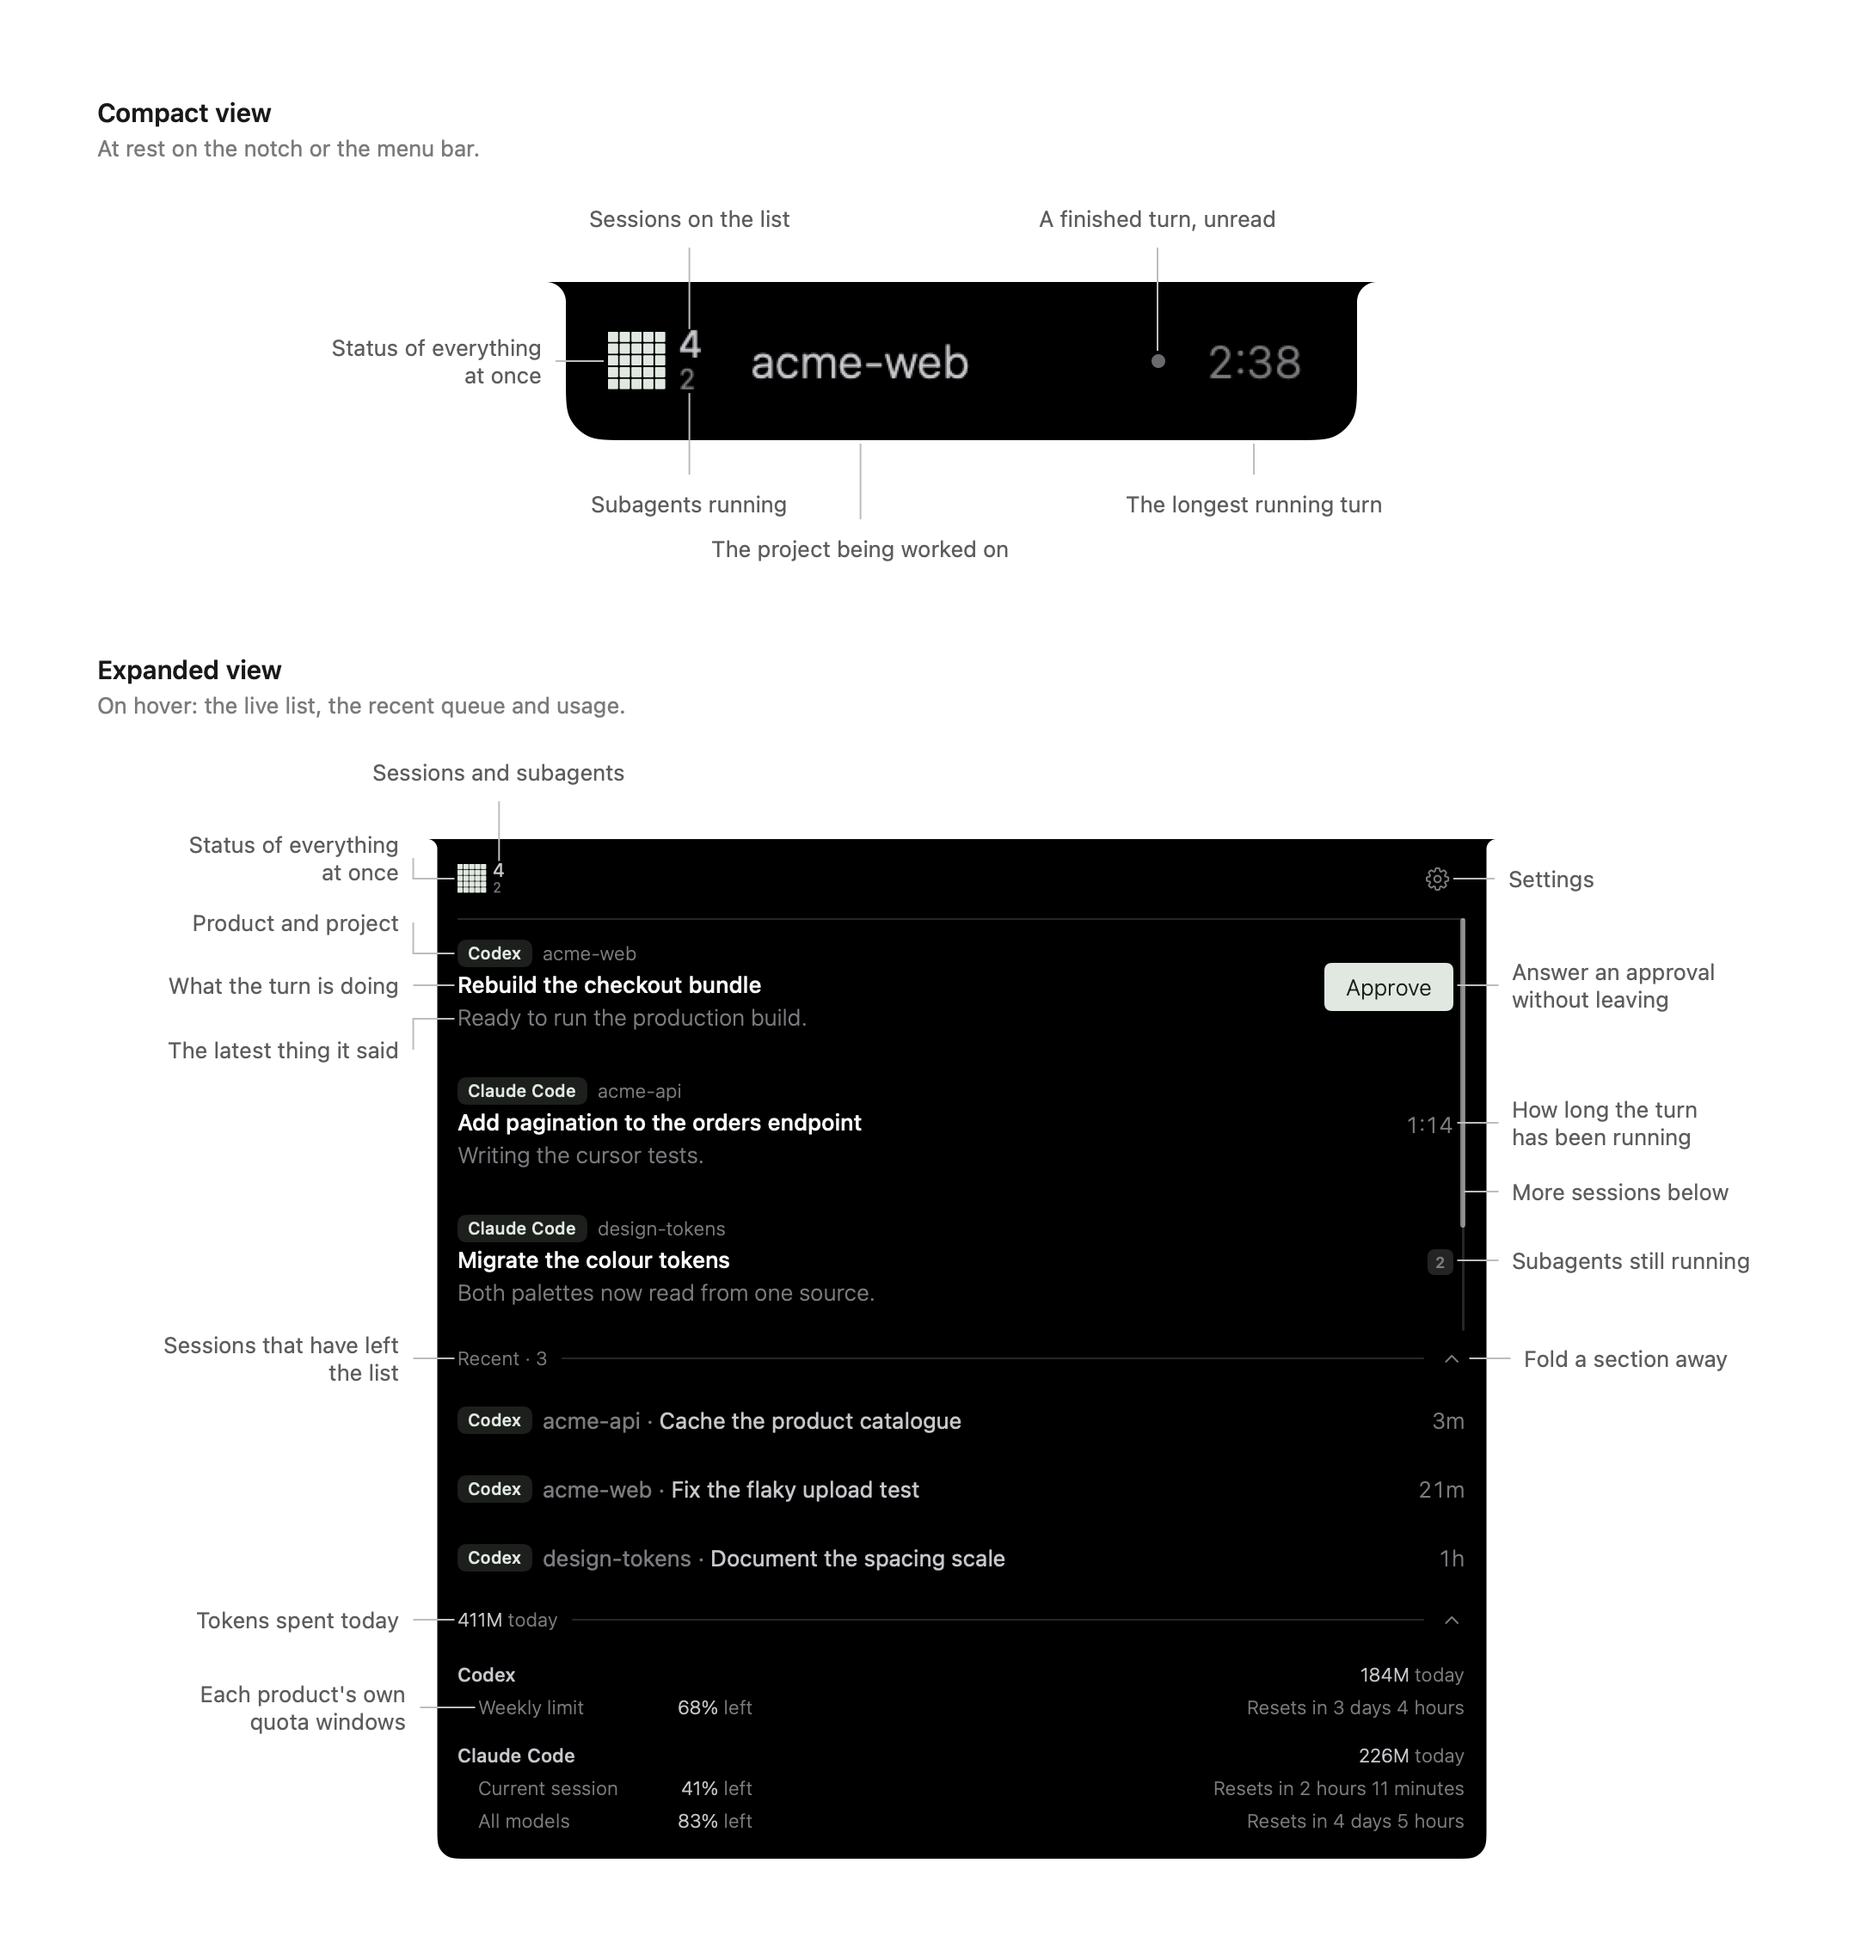
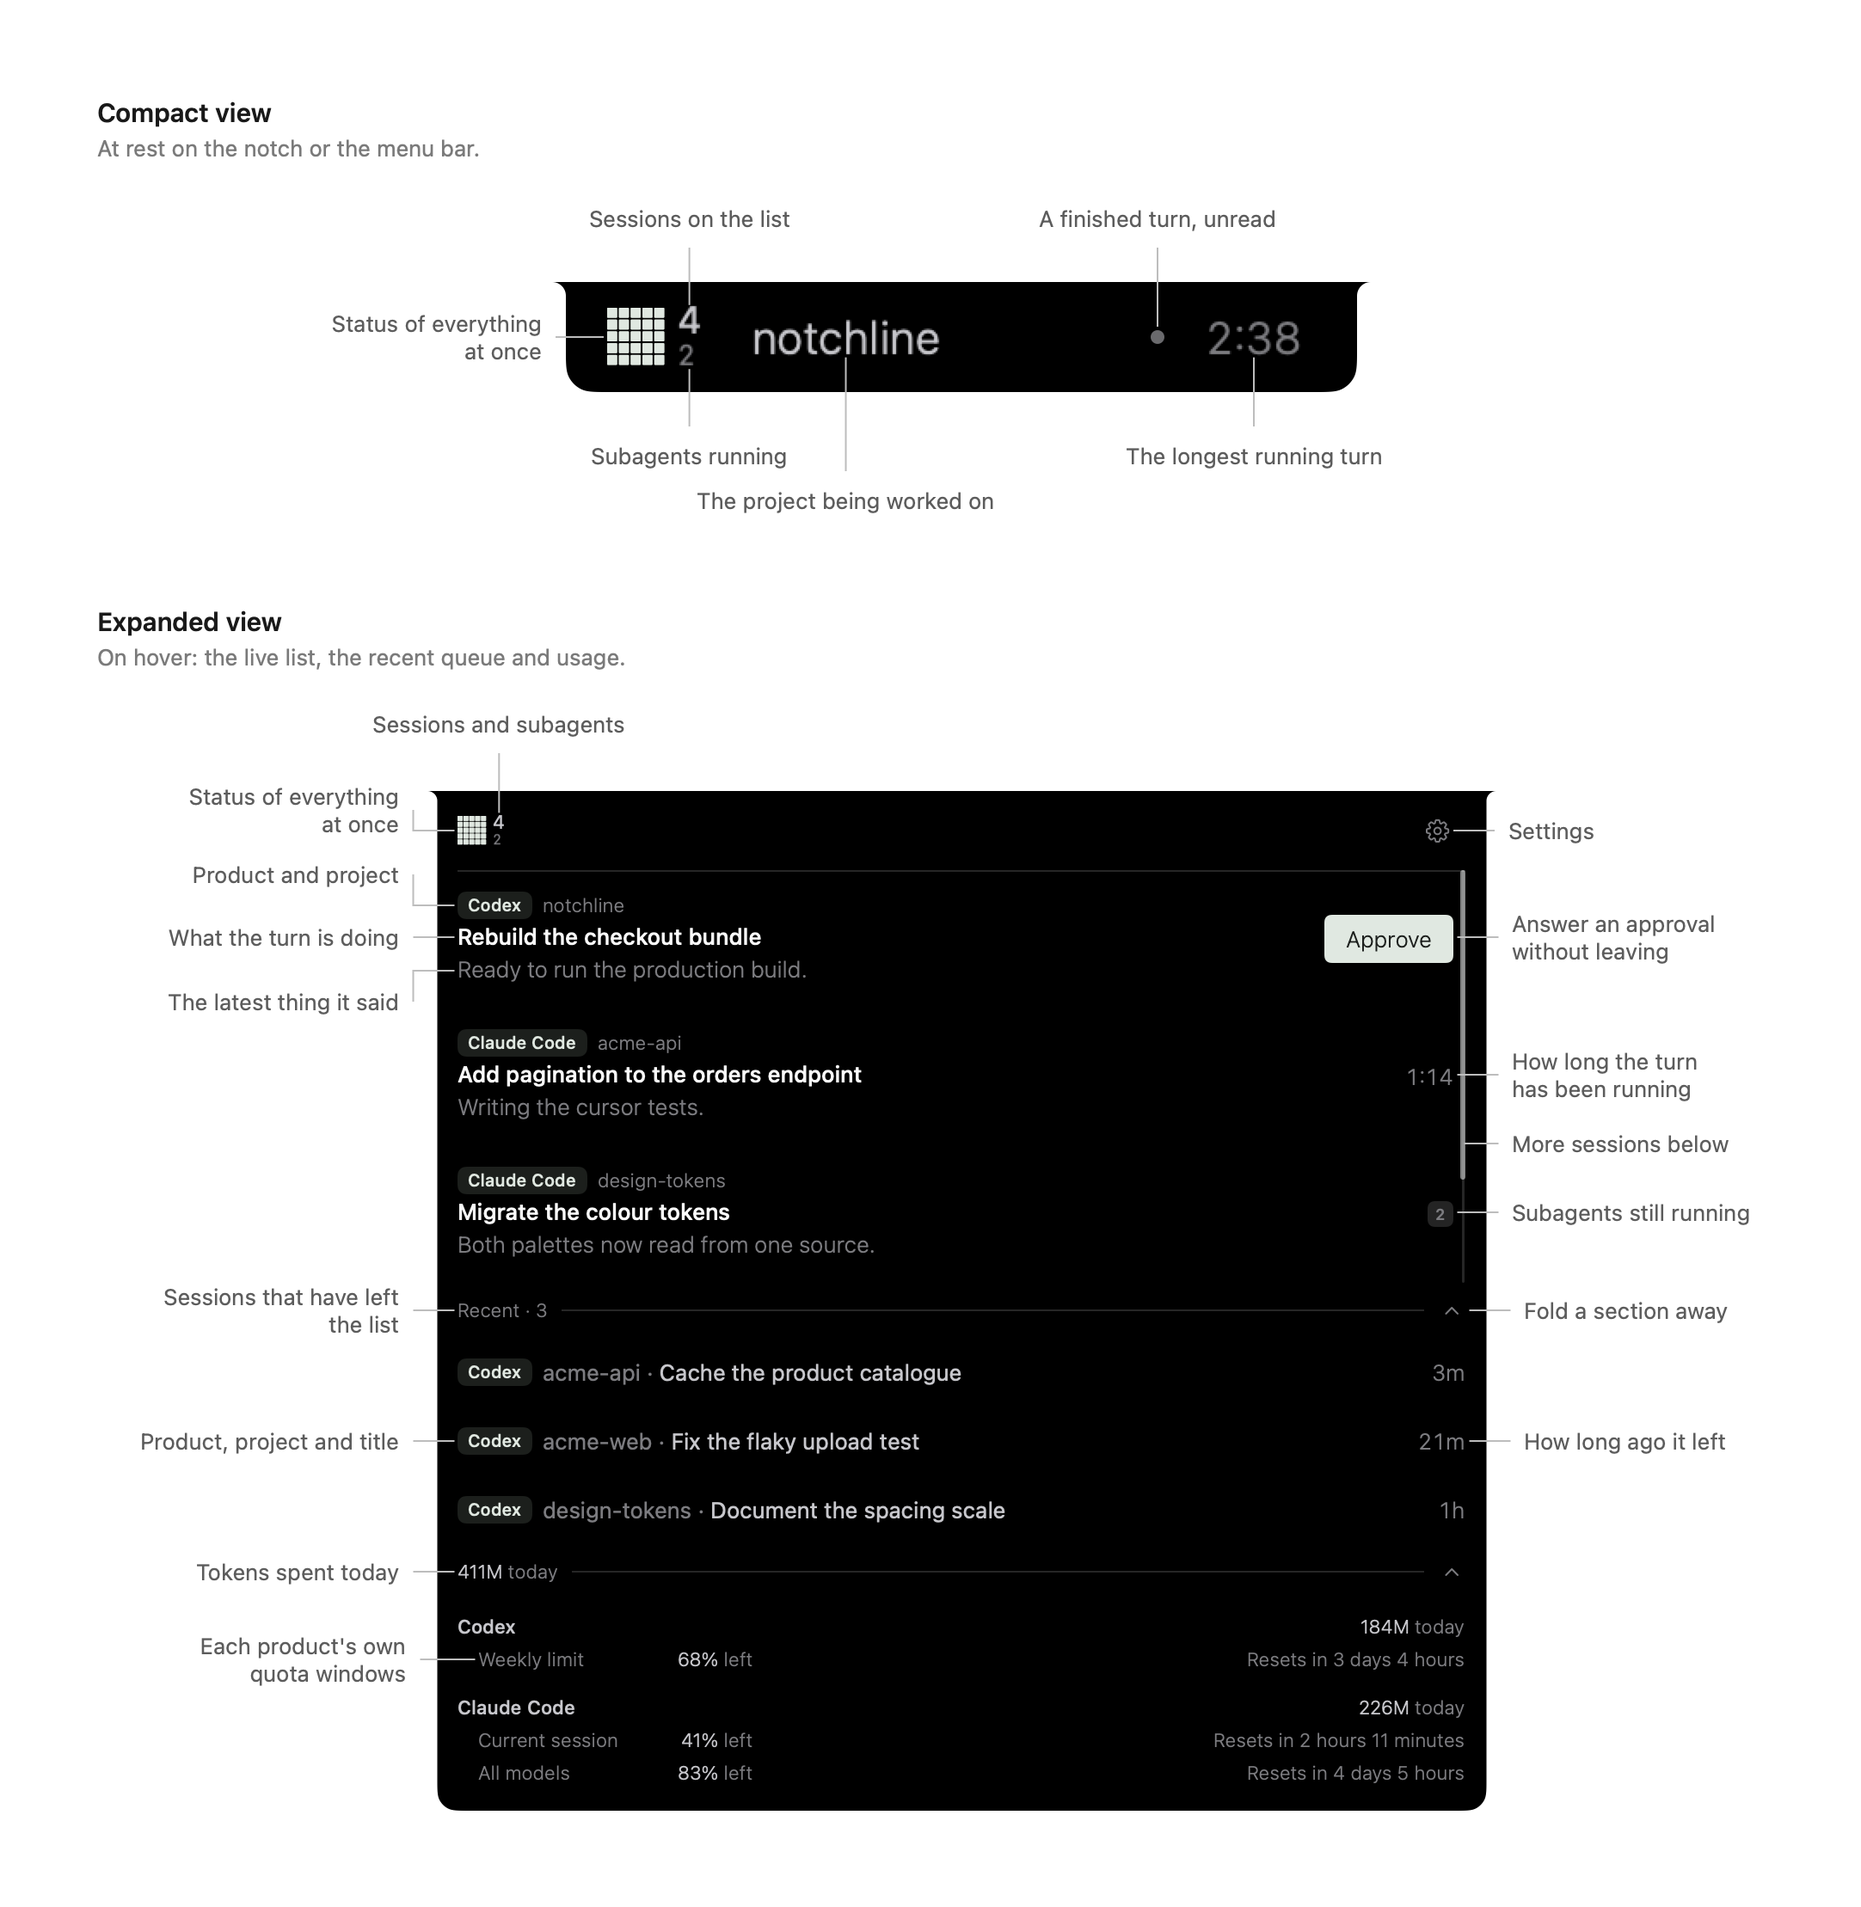
Draw the pill on a 32 pt bar, and name four more parts
Four changes to the README anatomy, and one defect the last of them found.

**The pill is drawn on a `32` pt bar rather than the `46` pt reference.** Its
width is composed from the wing and the reading and does not move with the
height, so at `46` it was `241 × 46` — a slab, rather than something that hugs
a menu bar. The panel keeps `46`, which is what its band is measured at in
every document, so the two figures now show two different bars; if that reads
wrong, `panelDisplay` is the one line to change.

**The pill's project is `notchline`.** It is the first row's Project, so the
panel's leading row says it too — one staged moment, one name. The other rows
and the Recent queue keep their own, which is what makes the pill's middle a
rotation rather than a label.

**Its Project and its reading are pinned to their glyphs**, not to the bar's
bottom edge, which is where a leader dropped from an x alone was landing. Both
are `13` pt Light centred in the band, and SwiftUI centres the line box rather
than the cap, so the baseline is `(ascender + descender) / 2` below the middle;
the timer's monospaced-digit face is the same font with tabular figures on and
carries the same metrics, so one figure serves the pair.

**A retired row is named, and so is its age** — the two parts the Recent
section had that nothing pointed at.

The defect: this test used to `orderFront` the window it renders in, and with
`~/.notchline-anatomy-out` in place a full run then failed **27** tests
[…]

diff --git a/Notchline/NotchlineTests/AnatomyFigureRenderer.swift b/Notchline/NotchlineTests/AnatomyFigureRenderer.swift
@@ -36,26 +36,36 @@ import Testing
 
 @MainActor
 struct AnatomyFigureRenderer {
-    /// A display that is not a display: a `46` pt menu bar and no notch, so
-    /// both figures draw the self-contained pill rather than a shape that only
-    /// reads wrapped around a cut-out.
-    static let display = DisplayOption(
-        id: "anatomy",
-        displayID: nil,
-        ordinal: 1,
-        name: "Anatomy",
-        frame: NSRect(x: 0, y: 0, width: 1440, height: 900),
-        visibleFrame: NSRect(
-            x: 0,
-            y: 0,
-            width: 1440,
-            height: 900 - PanelMetrics.referenceCompactHeight
-        ),
-        safeAreaInsets: NSEdgeInsets(),
-        auxiliaryTopLeftArea: nil,
-        auxiliaryTopRightArea: nil,
-        fallbackMenuBarHeight: PanelMetrics.referenceCompactHeight
-    )
+    /// A display that is not a display: no notch, so both figures draw the
+    /// self-contained pill rather than a shape that only reads wrapped around a
+    /// cut-out.
+    ///
+    /// The bar height is the figure's own. `panelBandHeight` on a display with
+    /// no cut-out is its menu bar, so it is set by the visible frame and by the
+    /// fallback together.
+    static func display(bandHeight: CGFloat) -> DisplayOption {
+        DisplayOption(
+            id: "anatomy-\(Int(bandHeight))",
+            displayID: nil,
+            ordinal: 1,
+            name: "Anatomy",
+            frame: NSRect(x: 0, y: 0, width: 1440, height: 900),
+            visibleFrame: NSRect(x: 0, y: 0, width: 1440, height: 900 - bandHeight),
+            safeAreaInsets: NSEdgeInsets(),
+            auxiliaryTopLeftArea: nil,
+            auxiliaryTopRightArea: nil,
+            fallbackMenuBarHeight: bandHeight
+        )
+    }
+
+    /// The pill is drawn on a `32` pt bar. At the `46` pt reference it is `241`
+    /// wide and `46` tall, which reads as a slab rather than as something that
+    /// hugs a menu bar; the width is composed from the wing and the reading and
+    /// does not move with the height, so the whole of the change is proportion.
+    static let compactDisplay = display(bandHeight: 32)
+    /// The panel keeps the reference bar, which is what its band is measured at
+    /// everywhere else in the documents.
+    static let panelDisplay = display(bandHeight: PanelMetrics.referenceCompactHeight)
 
     // MARK: - The staged moment
 
@@ -82,7 +92,7 @@ struct AnatomyFigureRenderer {
                 agent: .codex,
                 threadID: "anatomy-approval-thread",
                 turnID: "anatomy-approval-turn",
-                projectName: "acme-web",
+                projectName: "notchline",
                 title: "Rebuild the checkout bundle",
                 preview: "Ready to run the production build.",
                 status: .approvalNeeded,
@@ -171,7 +181,8 @@ struct AnatomyFigureRenderer {
     static func store(
         isExpanded: Bool,
         buriedFinish: Bool,
-        at now: Date
+        at now: Date,
+        on display: DisplayOption
     ) -> MonitorStore {
         let rows = sessions(at: now, buriedFinish: buriedFinish)
         let quotas = quota(at: now)
@@ -276,7 +287,13 @@ struct AnatomyFigureRenderer {
         // runs; pinning the appearance keeps a figure from changing with
         // whatever the machine rendering it happens to be set to.
         window.appearance = NSAppearance(named: .darkAqua)
-        window.orderFront(nil)
+        // **The window is never ordered in.** It exists to give the hosting
+        // view an appearance and a backing scale; `cacheDisplay` draws the view
+        // tree itself and does not need it on screen -- the figure is byte for
+        // byte the same either way. Ordering it front cost 27 failures
+        // elsewhere in the suite, on the tests that synthesise events at their
+        // own offscreen hosting views: a real window in front of them takes the
+        // hit that was meant for theirs.
         host.layoutSubtreeIfNeeded()
         // Turns of the loop, so SwiftUI has committed a layout pass and the
         // lists have filled before anything is cached out of them.
@@ -286,7 +303,6 @@ struct AnatomyFigureRenderer {
 
         let rep = try #require(host.bitmapImageRepForCachingDisplay(in: host.bounds))
         host.cacheDisplay(in: host.bounds, to: rep)
-        window.orderOut(nil)
 
         let data = try #require(rep.representation(using: .png, properties: [:]))
         try data.write(to: url)
@@ -322,7 +338,12 @@ struct AnatomyFigureRenderer {
 
         // The collapsed pill: the mark, the counts, the Project, the dot for a
         // finished turn nobody has read, and the longest running turn.
-        let compact = Self.store(isExpanded: false, buriedFinish: true, at: now)
+        let compact = Self.store(
+            isExpanded: false,
+            buriedFinish: true,
+            at: now,
+            on: Self.compactDisplay
+        )
         let compactSize = CGSize(
             width: compact.currentPanelSize.width + compact.surfaceShoulderRadius * 2,
             height: compact.currentPanelSize.height
@@ -338,7 +359,12 @@ struct AnatomyFigureRenderer {
         // moment the pill is: the counts on the two figures are one reading,
         // and the fourth row -- the finished one the pill's dot speaks for --
         // is the one the rail says is below.
-        let panel = Self.store(isExpanded: true, buriedFinish: true, at: now)
+        let panel = Self.store(
+            isExpanded: true,
+            buriedFinish: true,
+            at: now,
+            on: Self.panelDisplay
+        )
         panel.stageSpecimenQueue(Self.departures(at: now))
         panel.isRecentExpanded = true
         panel.isQuotaExpanded = true

diff --git a/Notchline/NotchlineTests/ReadmeAnatomyCard.swift b/Notchline/NotchlineTests/ReadmeAnatomyCard.swift
@@ -288,6 +288,19 @@ struct AnatomyAnchors {
 
     var buriedDotTop: CGFloat { matrixMidY - PanelMetrics.buriedFinishDotSize / 2 }
 
+    /// The bottom of a single line of text centred in the band — its baseline,
+    /// since neither reading the pill draws has a descender below it.
+    ///
+    /// SwiftUI centres the *line box*, not the cap, so the baseline sits half
+    /// the box's own asymmetry below the middle. Both readings are `13` pt
+    /// Light: the timer's monospaced-digit face is the same font with tabular
+    /// figures on, and carries the same ascender and descender, so one figure
+    /// serves the pair.
+    var readingGlyphBottom: CGFloat {
+        let font = PanelMetrics.projectNameFont
+        return matrixMidY + (font.ascender + font.descender) / 2
+    }
+
     // MARK: The expanded panel
 
     /// The gear's own glyph, not the `32` pt button around it: `gearshape` at
@@ -321,6 +334,10 @@ struct AnatomyAnchors {
             + PanelMetrics.sessionViewportWidth(panelWidth: bodyWidth)
             - PanelMetrics.sessionRowPadding
     }
+
+    /// A retired row's age. The Recent queue has its own viewport and its own
+    /// rail, and three rows do not fill five, so it keeps the whole lane.
+    var retiredAgeRight: CGFloat { seamChevronRight }
 
     /// The rail stands on the panel's own `12` pt inset and never in it.
     var railLeft: CGFloat { trailingEdge - PanelMetrics.scrollRailWidth }
@@ -567,7 +584,7 @@ struct ReadmeAnatomyCard: View {
                 id: 4,
                 text: "The project being worked on",
                 side: .below,
-                target: CGPoint(x: a.projectNameX * s, y: a.band * s),
+                target: CGPoint(x: a.projectNameX * s, y: a.readingGlyphBottom * s),
                 stem: 20 + Self.stackedRowStep
             ),
             AnatomyCallout(
@@ -581,7 +598,7 @@ struct ReadmeAnatomyCard: View {
                 id: 6,
                 text: "The longest running turn",
                 side: .below,
-                target: CGPoint(x: a.timerX * s, y: a.band * s),
+                target: CGPoint(x: a.timerX * s, y: a.readingGlyphBottom * s),
                 stem: 20
             )
         ]
@@ -686,13 +703,27 @@ struct ReadmeAnatomyCard: View {
             ),
             AnatomyCallout(
                 id: 13,
+                text: "Product, project and title",
+                side: .leading,
+                target: CGPoint(x: a.rowTextLeft, y: a.retiredRowY(1)),
+                stem: 26
+            ),
+            AnatomyCallout(
+                id: 14,
+                text: "How long ago it left",
+                side: .trailing,
+                target: CGPoint(x: a.retiredAgeRight, y: a.retiredRowY(1)),
+                stem: 26
+            ),
+            AnatomyCallout(
+                id: 15,
                 text: "Tokens spent today",
                 side: .leading,
                 target: CGPoint(x: a.rowTextLeft, y: a.spendY),
                 stem: 26
             ),
             AnatomyCallout(
-                id: 14,
+                id: 16,
                 text: "Each product's own\nquota windows",
                 side: .leading,
                 target: CGPoint(x: a.windowLineLeft, y: a.windowLineY),
